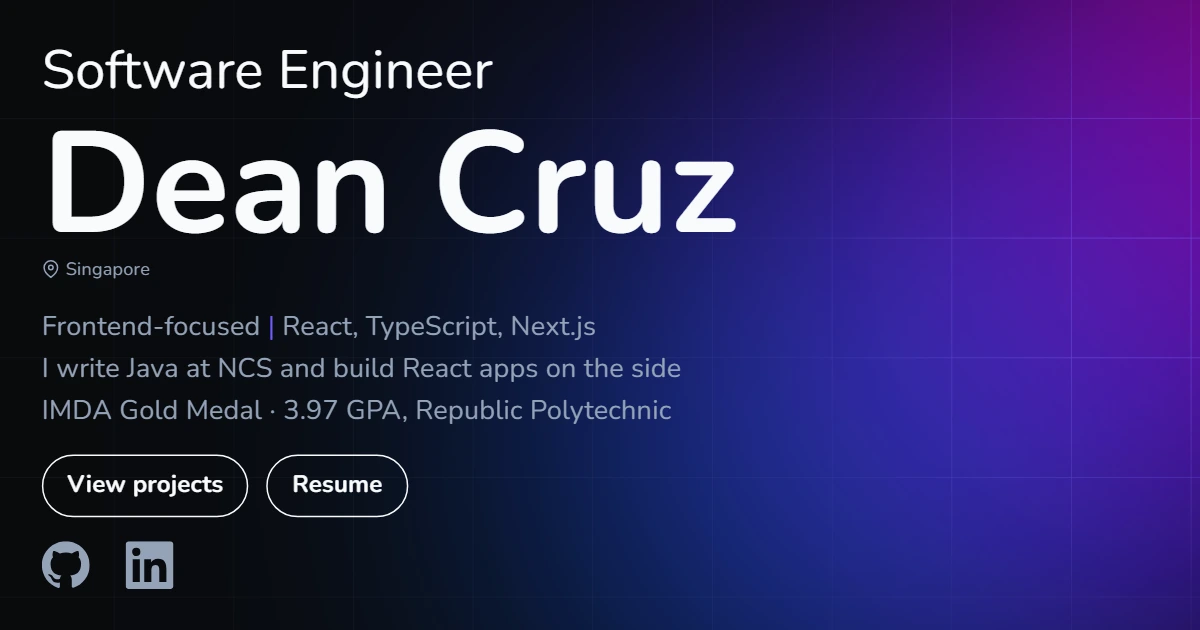
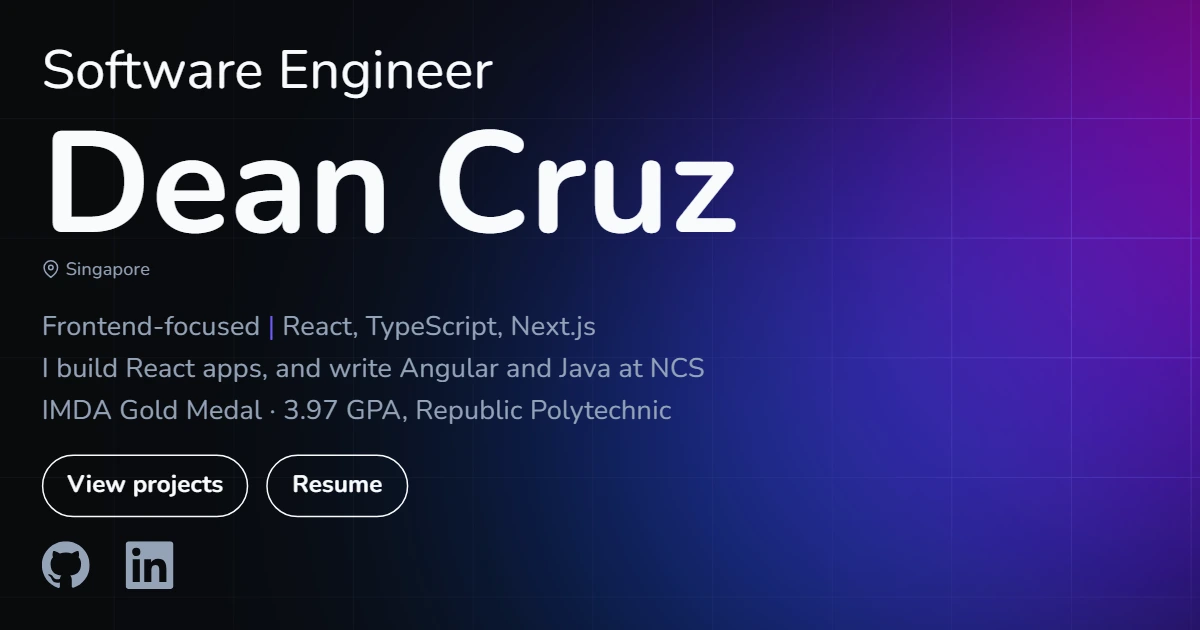
Update language to be more frontend focused

Changed region(s): [[0.0308, 0.573, 0.5858, 0.6032]]

diff --git a/index.html b/index.html
@@ -9,7 +9,7 @@
     <meta name="title" content="Dean Cruz - Software Engineer" />
     <meta
       name="description"
-      content="Dean Cruz, software engineer in Singapore. Strongest on the frontend (React, TypeScript, Next.js), with Java and Spring Boot at work."
+      content="Dean Cruz, software engineer in Singapore. Strongest on the frontend (React, TypeScript, Next.js), with Angular, Java and Spring Boot at work."
     />
     <meta
       name="keywords"
@@ -25,7 +25,7 @@
     <meta property="og:title" content="Dean Cruz - Software Engineer" />
     <meta
       property="og:description"
-      content="Dean Cruz, software engineer in Singapore. Strongest on the frontend (React, TypeScript, Next.js), with Java and Spring Boot at work."
+      content="Dean Cruz, software engineer in Singapore. Strongest on the frontend (React, TypeScript, Next.js), with Angular, Java and Spring Boot at work."
     />
     <meta property="og:image" content="https://deancruz1.github.io/preview.webp" />
     <meta property="og:site_name" content="Dean Cruz | Software Engineer" />
@@ -36,7 +36,7 @@
     <meta name="twitter:title" content="Dean Cruz - Software Engineer" />
     <meta
       name="twitter:description"
-      content="Dean Cruz, software engineer in Singapore. Strongest on the frontend (React, TypeScript, Next.js), with Java and Spring Boot at work."
+      content="Dean Cruz, software engineer in Singapore. Strongest on the frontend (React, TypeScript, Next.js), with Angular, Java and Spring Boot at work."
     />
     <meta name="twitter:image" content="https://deancruz1.github.io/preview.webp" />
 

diff --git a/src/data/work-experience.js b/src/data/work-experience.js
@@ -10,7 +10,7 @@ export const workExperiences = [
     duration: "2026 — Present",
     location: "Singapore",
     summary:
-      "Legacy Java modernisation, plus a full-stack Angular and Spring Boot app where I designed the key front-end components. Planned and reviewed with NCS's in-house AI agent and OpenSpec. Part of the Fusion Work-Study Programme (sponsored UOW degree).",
+      "Designed the key front-end components of a full-stack Angular and Spring Boot app, alongside legacy Java modernisation. Planned and reviewed with NCS's in-house AI agent and OpenSpec. Part of the Fusion Work-Study Programme (sponsored UOW degree).",
     highlights: [
       {
         value: "800+",
@@ -31,7 +31,7 @@ export const workExperiences = [
           "Migrated 6 EJB endpoints to SOAP web services on both provider and consumer sides; now migrating 24 more consumer endpoints for another service.",
       },
     ],
-    tags: ["Java", "Spring Boot", "MyBatis", "Hibernate", "MySQL", "EJB", "SOAP", "JasperReports", "Angular"],
+    tags: ["Angular", "Java", "Spring Boot", "MyBatis", "Hibernate", "MySQL", "EJB", "SOAP", "JasperReports"],
   },
   {
     logo: ocbcLogo,

diff --git a/src/pages/Home.jsx b/src/pages/Home.jsx
@@ -34,7 +34,7 @@ const focusTiles = [
     title: "Work",
     stat: "1,600+",
     statLabel: "queries tuned at NCS",
-    text: "I work on legacy Java systems at NCS. Mostly migrations and upgrades.",
+    text: "At NCS I designed the key front-end components of a full-stack Angular app, alongside legacy Java modernisation.",
     links: [{ label: "Experience", to: "/#experience" }],
   },
   {
@@ -108,8 +108,8 @@ const Home = () => {
               <br className="sm:hidden" /> React, TypeScript, Next.js
             </p>
             <p className="max-w-md text-base text-(--text-secondary) md:max-w-xl md:text-base lg:text-lg">
-              I write Java at NCS
-              <br className="sm:hidden" /> and build React apps on the side
+              I build React apps,
+              <br className="sm:hidden" /> and write Angular and Java at NCS
             </p>
             <p className="max-w-md text-base text-(--text-secondary) md:max-w-xl md:text-base lg:text-lg">
               IMDA Gold Medal <span className="hidden sm:inline">·</span>

diff --git a/src/data/project-info-home.jsx b/src/data/project-info-home.jsx
@@ -300,7 +300,7 @@ export const projects = [
       "An anime tracker with a watch list, seasonal calendar, recommendations and viewing stats.",
     card: {
       why: "Existing anime trackers never felt right, so I built my own.",
-      how: "It runs on Supabase Postgres because Vercel functions can't keep a SQLite file between requests.",
+      how: "Built on the Next.js App Router, so server components fetch the data and pages don't wait on client-side requests.",
     },
     features: [
       {

diff --git a/src/pages/Projects.jsx b/src/pages/Projects.jsx
@@ -47,7 +47,7 @@ const Projects = () => {
               All Projects
             </h1>
             <p className="text-lg text-(--text-secondary)">
-              Full-stack, frontend and design work
+              Frontend, full-stack and design work
             </p>
           </div>
 
